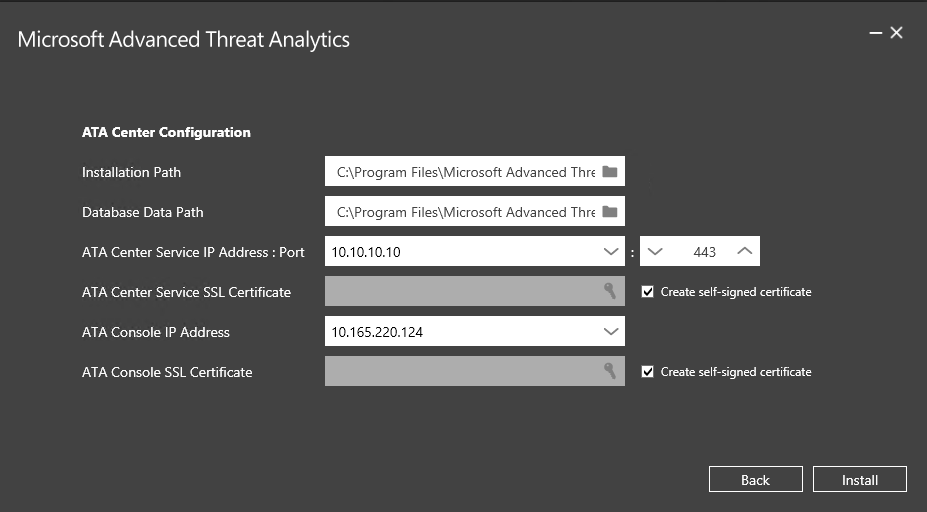
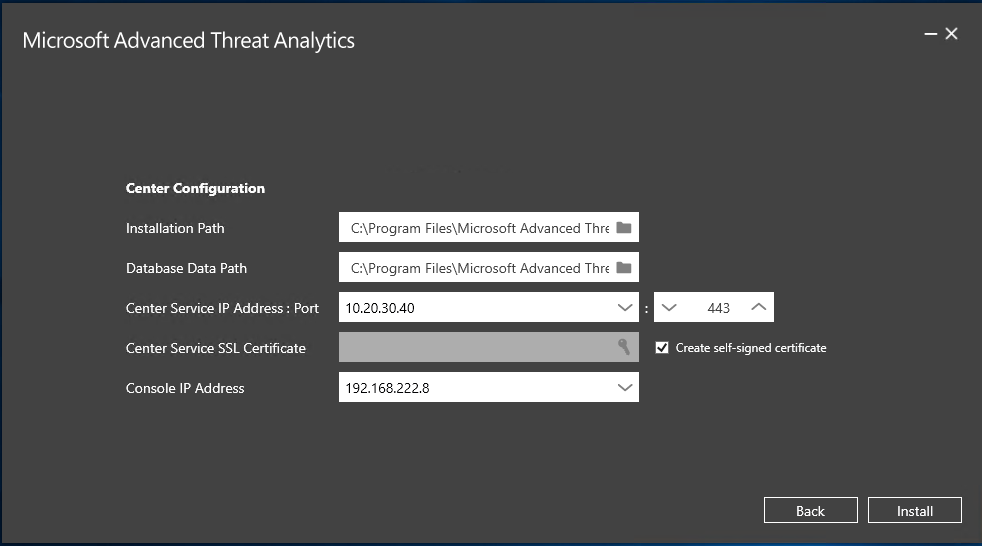
Remove IIS references from install-ata-step1

diff --git a/ATADocs/DeployUse/install-ata-step1.md b/ATADocs/DeployUse/install-ata-step1.md
@@ -64,19 +64,16 @@ Perform the following steps on the ATA Center server.
     |---------|---------------|------------|
     |Installation Path|This is the location where the ATA Center will be installed. By default this is  %programfiles%\Microsoft Advanced Threat Analytics\Center|Leave the default value|
     |Database Data Path|This is the location where the MongoDB database files will be located. By default this is %programfiles%\Microsoft Advanced Threat Analytics\Center\MongoDB\bin\data|Change the location to a place where you have room to grow based on your sizing. **Note:** <ul><li>In production environments you should use a drive that has enough space based on capacity planning.</li><li>For large deployments the database should be on a separate physical disk.</li></ul>See [ATA capacity planning](/advanced-threat-analytics/plan-design/ata-capacity-planning) for sizing information.|
-    |ATA Center Service IP address: Port|This is the IP address that the ATA Center service will listen on for communication from the ATA Gateways.<br /><br />**Default port:** 443|Click the down arrow to select the IP address to be used by the ATA Center service.<br /><br />The IP address and port of the ATA Center service cannot be the same as the IP address and port of the ATA Console. Make sure to change the port of the ATA Console.|
-    |ATA Center Service SSL Certificate|This is the certificate that will be used by the ATA Center service.|Click the key icon to select a certificate installed or check self-signed certificate when deploying in a lab environment.|
-    |ATA Console IP address|This is the IP address that will be used by IIS for the ATA Console.|Click the down arrow to select the IP address used by the ATA Console. **Note:** Make a note of this IP address to make it easier to access the ATA Console from the ATA Gateway.|
-    |ATA Console SSL certificate|This is the certificate to be used by IIS.|Click the key icon to select a certificate installed or check self-signed certificate when deploying in a lab environment.|
-
+    |Center Service IP address: Port|This is the IP address that the ATA Center service will listen on for communication from the ATA Gateways.<br /><br />**Default port:** 443|Click the down arrow to select the IP address to be used by the ATA Center service.<br /><br />The IP address and port of the ATA Center service cannot be the same as the IP address and port of the ATA Console. Make sure to change the port of the ATA Console.|
+    |Center Service SSL Certificate|This is the certificate that will be used by the ATA Console and ATA Center service.|Click the key icon to select a certificate installed or check self-signed certificate when deploying in a lab environment.|
+    |Console IP address|This is the IP address that will be used for the ATA Console.|Click the down arrow to select the IP address used by the ATA Console. **Note:** Make a note of this IP address to make it easier to access the ATA Console from the ATA Gateway.|
+    
     ![ATA center configuration image](media/ATA-Center-Configuration.JPG)
 
 10.  Click **Install** to install the ATA Center and its components.
     The following components are installed and configured during the installation of ATA Center:
 
-    -   Internet Information Services (IIS)
-
-    -   ATA Center service and ATA Console IIS site
+    -   ATA Center service
 
     -   MongoDB
 
